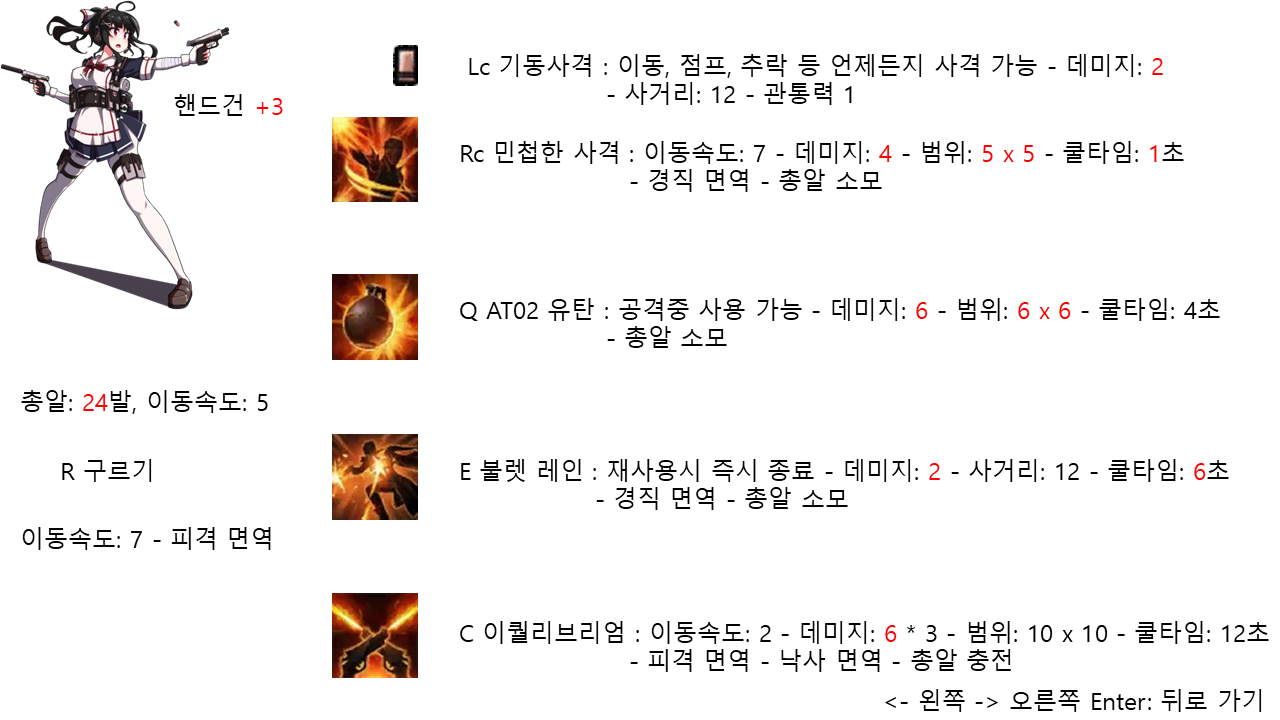
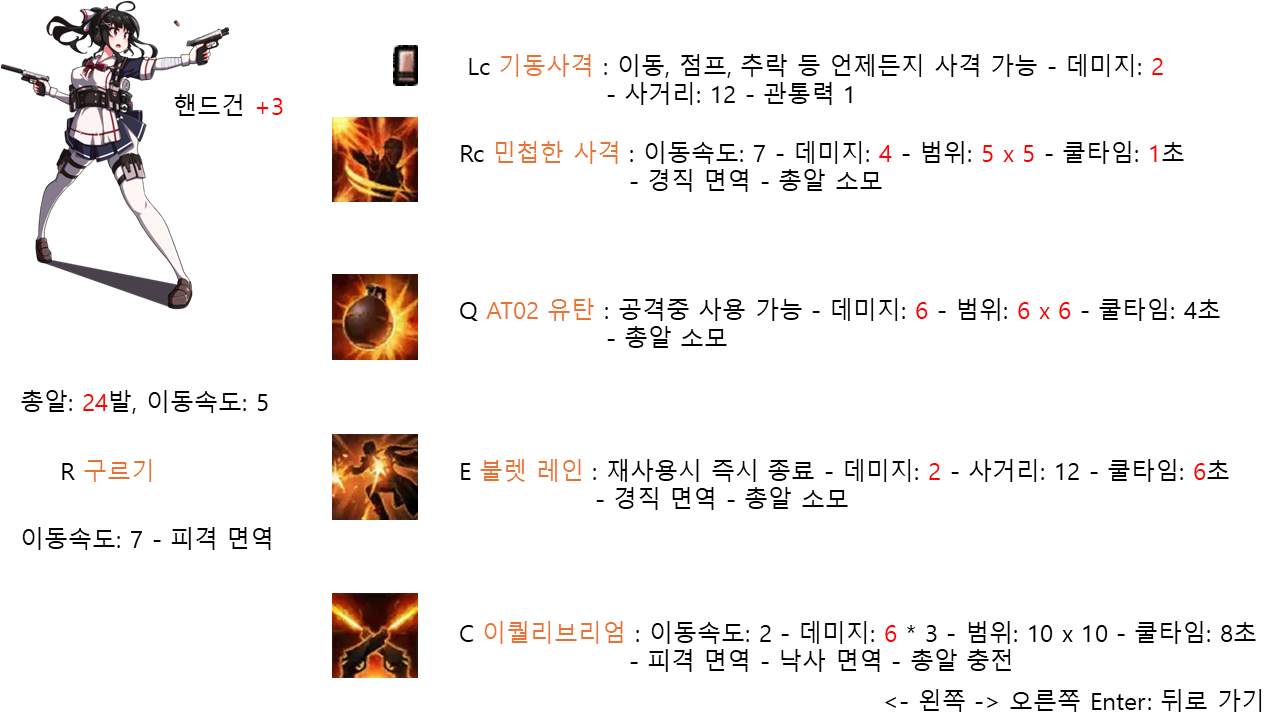
가이드 수정 및 배경 추가

diff --git a/background.py b/background.py
@@ -12,7 +12,7 @@ class Background:
         self.cw = get_canvas_width() # 가로 3240 pixel == 108m 화면은 1080 pixel 만 출력,
         self.window_left = 0         # 세로 1200 pixel == 40m 이지만 800 pixel 만 사용 하고 출력
         if Background.image == None:
-            Background.image = [load_image("./Background/" + 'Background' + " (%d)" % i + ".png") for i in range(1, 3 + 1)]
+            Background.image = [load_image("./Background/" + 'Background' + " (%d)" % i + ".png") for i in range(1, 4 + 1)]
         self.w = self.image[k].w
         if Background.sound == None:
             Background.sound = [load_music("./Bgm/" + 'BGM' + " (%d)" % i + ".mp3") for i in range(1, 3 + 1)]
@@ -44,7 +44,7 @@ class Background:
                 Background.current_sound = Background.sound[1]
                 Background.current_sound.repeat_play()
 
-        elif self.frame == 2:
+        elif self.frame == 2 or self.frame == 3:
             if Background.current_sound != Background.sound[2]:
                 if Background.current_sound:
                     Background.current_sound.stop()

diff --git a/character.py b/character.py
@@ -2497,7 +2497,7 @@ class CHG:
             if God:
                 Character.equilibrium_cooldown = 1
             else:
-                Character.equilibrium_cooldown = 20
+                Character.equilibrium_cooldown = 8
             character.state_machine.add_event(('TIME_OUT', 0))
 
         elif get_time() - character.wait_time > 2.0 and count == 1:
@@ -2660,7 +2660,7 @@ class Character:
     dexterous_shot_cooldown = 0 # 민첩한 사격 쿨타임 2초 / 1초 (+2)
     at02_grenade_cooldown = 0 # AT02 유탄 쿨타임 4초
     bullet_rain_cooldown = 0 # 불렛 레인 쿨타임 6초 / 3초 (+4)
-    equilibrium_cooldown = 0 # 이퀄리브리엄 쿨타임 12초
+    equilibrium_cooldown = 0 # 이퀄리브리엄 쿨타임 8초
 
     def load_images(self):
         if Character.images == None:

diff --git a/play_mode.py b/play_mode.py
@@ -26,7 +26,7 @@ from stonestatue import Stonestatue
 
 character_created = False
 
-stage = 1
+stage = 4
 
 def handle_events():
     events = get_events()
@@ -477,6 +477,13 @@ def init(stage):
         game_world.add_objects(heals, 2)
         for heal in heals:
             game_world.add_collision_pairs('server.character:heal', None, heal)
+
+        # 최대 체력 증가 아이템
+        game_world.add_collision_pairs('server.character:morehp', server.character, None)
+
+        morehp = MoreHP(21, 9)
+        game_world.add_object(morehp, 2)
+        game_world.add_collision_pairs('server.character:morehp', None, morehp)
 
     elif stage == 4:
         stage_info = stage_data[stage]

diff --git a/guide_mode.py b/guide_mode.py
@@ -93,7 +93,7 @@ def handle_events():
                 dn = 18
             change_guide()
         elif event.type == SDL_KEYDOWN and event.key == SDLK_RIGHT and cn == 4:
-            if dn <= 19:
+            if dn <= 20:
                 dn += 1
             else:
                 dn = 19
@@ -102,7 +102,7 @@ def handle_events():
             if dn >= 20:
                 dn -= 1
             else:
-                dn = 20
+                dn = 21
             change_guide()
 
 

diff --git a/guide.py b/guide.py
@@ -11,7 +11,7 @@ class Guide:
         self.font = load_font('ENCR10B.TTF', 20)
         self.frame = k
         if Guide.image == None:
-            Guide.image = [load_image("./Background/" + 'Guide' + " (%d)" % i + ".png") for i in range(1, 21 + 1)]
+            Guide.image = [load_image("./Background/" + 'Guide' + " (%d)" % i + ".png") for i in range(1, 22 + 1)]
 
     def update(self):
         pass
